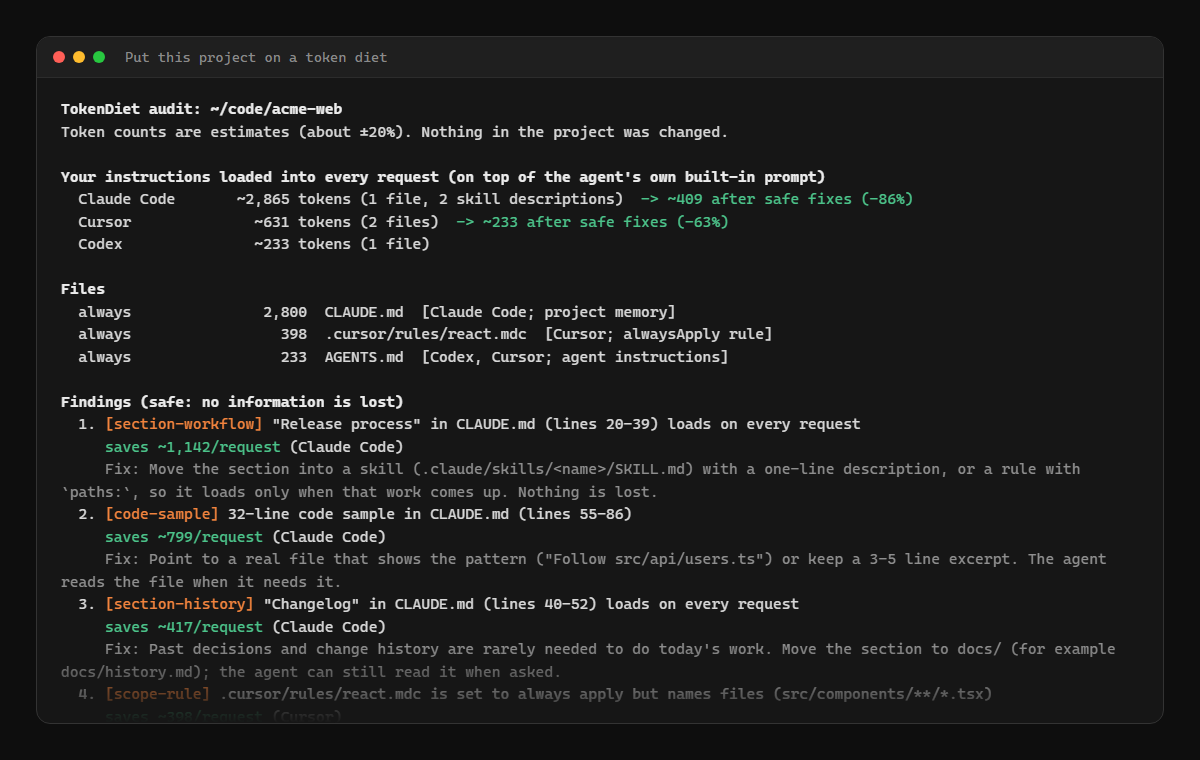
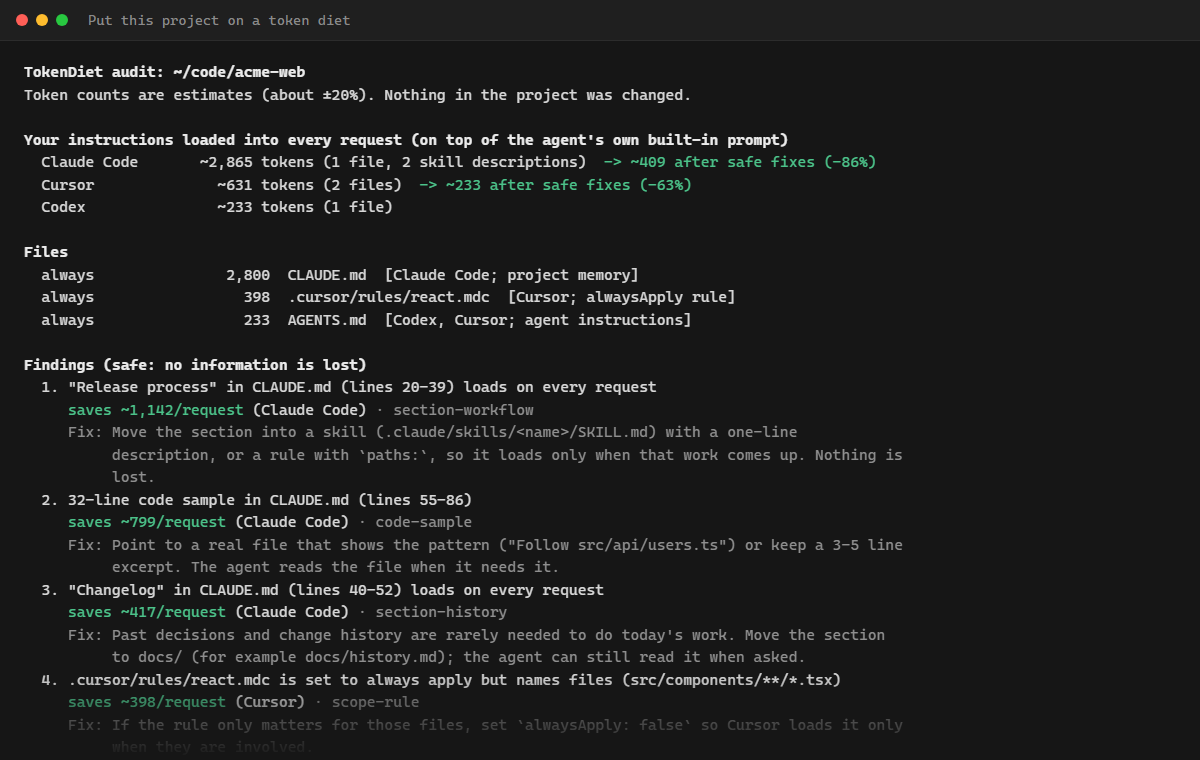
Design review fixes and Agensi details
- Buttons name an action before launch ("Explore TokenDiet",
  "See pricing") instead of a status
- Home hero: before/after token meter with the demo numbers
- FAQ chevrons inside the cards; "Explore" links aligned at the bottom
- Pricing: one clean price, cards sized to content; 30-day money-back
  guarantee and included updates (confirmed by Agensi)
- Terms: refunds within 30 days through Agensi, updates via re-upload
- "What it finds" in four columns; table and code-box polish
- Support buttons say what they do; 404 links use arrows, not ticks
- Terminal screenshots without the double frame; report lines wrapped

Changed region(s): [[0.0308, 0.0605, 0.925, 0.9684], [0.0, 0.0, 0.2775, 0.0303]]

diff --git a/docs/assets/site.css b/docs/assets/site.css
@@ -63,6 +63,7 @@ h3 { font-size: 1.15rem; }
 p { margin: 0 0 1em; }
 code, kbd, pre { font-family: var(--mono); font-size: 0.92em; }
 code { background: var(--surface-2); padding: 0.1em 0.35em; border-radius: 5px; }
+pre code { background: none; padding: 0; border-radius: 0; }
 
 .wrap { width: min(var(--max), 100% - 32px); margin-inline: auto; }
 .muted { color: var(--muted); }
@@ -108,6 +109,19 @@ code { background: var(--surface-2); padding: 0.1em 0.35em; border-radius: 5px; 
 /* ---------- sections ---------- */
 main { display: block; }
 .hero { padding: 56px 0 40px; }
+.hero-grid { display: grid; gap: 40px; grid-template-columns: minmax(0, 1.35fr) minmax(0, 1fr); align-items: center; }
+@media (max-width: 900px) { .hero-grid { grid-template-columns: 1fr; gap: 28px; } }
+
+/* The signature: a token meter, before and after a diet (demo numbers). */
+.meter-card { background: var(--surface); border: 1px solid var(--line); border-radius: 14px; padding: 24px; font-family: var(--mono); }
+.meter-card .meter-title { font-size: 0.8rem; letter-spacing: 0.14em; text-transform: uppercase; color: var(--muted); margin: 0 0 18px; }
+.meter-row { margin: 0 0 18px; }
+.meter-row .meter-label { display: flex; justify-content: space-between; gap: 12px; font-size: 0.95rem; color: var(--ink-2); margin-bottom: 8px; }
+.meter-row .meter-label strong { color: var(--ink); font-weight: 700; }
+.meter-track { height: 12px; border-radius: 6px; background: var(--surface-2); overflow: hidden; }
+.meter-fill { height: 100%; border-radius: 6px; background: var(--orange); }
+.meter-fill.after { background: var(--green); }
+.meter-card .meter-note { font-family: var(--sans); font-size: 0.85rem; color: var(--muted); margin: 4px 0 0; }
 .hero .eyebrow { font-family: var(--mono); font-size: 0.85rem; letter-spacing: 0.14em; text-transform: uppercase; color: var(--muted); margin-bottom: 14px; }
 .section { padding: 48px 0; border-top: 1px solid var(--line); }
 .section > .wrap > h2 + .lead { margin-top: -0.2em; }
@@ -125,18 +139,29 @@ main { display: block; }
 .cta-note { font-size: 0.92rem; color: var(--muted); }
 
 .grid { display: grid; gap: 16px; grid-template-columns: repeat(auto-fit, minmax(260px, 1fr)); }
+.grid.top { align-items: start; }
+.grid-4 { grid-template-columns: repeat(4, minmax(0, 1fr)); }
+@media (max-width: 1000px) { .grid-4 { grid-template-columns: repeat(2, minmax(0, 1fr)); } }
+@media (max-width: 560px) { .grid-4 { grid-template-columns: 1fr; } }
 .card { background: var(--surface); border: 1px solid var(--line); border-radius: var(--radius); padding: 22px; min-width: 0; }
 .card h3 { margin-top: 0; }
 .card p:last-child { margin-bottom: 0; }
 .card.accent-orange { border-top: 4px solid var(--orange); }
 .card.accent-green { border-top: 4px solid var(--green); }
+.product-card { display: flex; flex-direction: column; }
 .product-card .wordmark { font-size: 1.35rem; display: block; margin-bottom: 6px; }
+.product-card .more { margin-top: auto; padding-top: 8px; font-weight: 600; }
+.arrow-link { font-weight: 600; text-decoration: none; }
+.arrow-link::after { content: " →"; }
+.arrow-link:hover { text-decoration: underline; }
 .product-card .price { font-family: var(--mono); color: var(--muted); font-size: 0.95rem; margin-bottom: 12px; }
 
 .checklist { list-style: none; padding: 0; margin: 0 0 1em; }
 .checklist li { position: relative; padding-left: 28px; margin: 8px 0; }
 .checklist li::before { content: "✓"; position: absolute; left: 0; top: 0; font-weight: 700; color: var(--green); }
 .checklist.cross li::before { content: "✕"; color: var(--muted); }
+.link-list { list-style: none; padding: 0; margin: 0; }
+.link-list li { margin: 10px 0; }
 
 .steps { counter-reset: step; list-style: none; padding: 0; margin: 0; display: grid; gap: 16px; grid-template-columns: repeat(auto-fit, minmax(230px, 1fr)); }
 .steps li { counter-increment: step; background: var(--surface); border: 1px solid var(--line); border-radius: var(--radius); padding: 20px; }
@@ -150,6 +175,10 @@ main { display: block; }
 .stat { background: var(--surface); border: 1px solid var(--line); border-radius: var(--radius); padding: 18px; }
 .stat .num { font-family: var(--mono); font-size: 1.7rem; font-weight: 700; display: block; }
 .stat .what { color: var(--ink-2); font-size: 0.95rem; }
+.price-block { margin: 4px 0 18px; }
+.price-block .amount { font-family: var(--mono); font-size: 2.6rem; font-weight: 700; line-height: 1; display: block; }
+.price-block .terms { color: var(--ink-2); font-size: 0.95rem; }
+.availability { font-weight: 600; color: var(--green); margin: 4px 0 10px; }
 
 /* ---------- tables ---------- */
 .table-wrap { overflow-x: auto; border: 1px solid var(--line); border-radius: var(--radius); background: var(--surface); }
@@ -157,7 +186,7 @@ table { width: 100%; border-collapse: collapse; font-size: 0.95rem; }
 caption { text-align: left; padding: 14px 16px 0; color: var(--muted); font-size: 0.9rem; }
 th, td { text-align: left; padding: 12px 16px; border-bottom: 1px solid var(--line); vertical-align: top; }
 th { color: var(--ink-2); font-weight: 600; }
-tr:last-child td { border-bottom: 0; }
+tr:last-child > * { border-bottom: 0; }
 
 /* ---------- code / copy ---------- */
 .command { display: flex; align-items: stretch; gap: 0; border: 1px solid var(--line); border-radius: var(--radius); background: var(--surface); overflow: hidden; margin: 10px 0 18px; }
@@ -168,8 +197,15 @@ tr:last-child td { border-bottom: 0; }
 
 /* ---------- FAQ ---------- */
 .faq details { background: var(--surface); border: 1px solid var(--line); border-radius: var(--radius); margin: 10px 0; }
-.faq summary { cursor: pointer; padding: 16px 20px; font-weight: 600; list-style-position: outside; }
-.faq summary::marker { color: var(--orange); }
+.faq summary { cursor: pointer; padding: 16px 52px 16px 20px; font-weight: 600; list-style: none; position: relative; }
+.faq summary::-webkit-details-marker { display: none; }
+.faq summary::after {
+  content: ""; position: absolute; right: 22px; top: 50%; width: 9px; height: 9px; margin-top: -6px;
+  border-right: 2px solid var(--orange); border-bottom: 2px solid var(--orange); transform: rotate(45deg);
+  transition: transform 0.15s ease;
+}
+.faq details[open] summary::after { transform: rotate(-135deg); margin-top: -2px; }
+.faq summary:hover { color: var(--orange); }
 .faq details > div { padding: 0 20px 16px; color: var(--ink-2); }
 
 /* ---------- prose pages (legal) ---------- */

diff --git a/src/assets/site.css b/src/assets/site.css
@@ -63,6 +63,7 @@ h3 { font-size: 1.15rem; }
 p { margin: 0 0 1em; }
 code, kbd, pre { font-family: var(--mono); font-size: 0.92em; }
 code { background: var(--surface-2); padding: 0.1em 0.35em; border-radius: 5px; }
+pre code { background: none; padding: 0; border-radius: 0; }
 
 .wrap { width: min(var(--max), 100% - 32px); margin-inline: auto; }
 .muted { color: var(--muted); }
@@ -108,6 +109,19 @@ code { background: var(--surface-2); padding: 0.1em 0.35em; border-radius: 5px; 
 /* ---------- sections ---------- */
 main { display: block; }
 .hero { padding: 56px 0 40px; }
+.hero-grid { display: grid; gap: 40px; grid-template-columns: minmax(0, 1.35fr) minmax(0, 1fr); align-items: center; }
+@media (max-width: 900px) { .hero-grid { grid-template-columns: 1fr; gap: 28px; } }
+
+/* The signature: a token meter, before and after a diet (demo numbers). */
+.meter-card { background: var(--surface); border: 1px solid var(--line); border-radius: 14px; padding: 24px; font-family: var(--mono); }
+.meter-card .meter-title { font-size: 0.8rem; letter-spacing: 0.14em; text-transform: uppercase; color: var(--muted); margin: 0 0 18px; }
+.meter-row { margin: 0 0 18px; }
+.meter-row .meter-label { display: flex; justify-content: space-between; gap: 12px; font-size: 0.95rem; color: var(--ink-2); margin-bottom: 8px; }
+.meter-row .meter-label strong { color: var(--ink); font-weight: 700; }
+.meter-track { height: 12px; border-radius: 6px; background: var(--surface-2); overflow: hidden; }
+.meter-fill { height: 100%; border-radius: 6px; background: var(--orange); }
+.meter-fill.after { background: var(--green); }
+.meter-card .meter-note { font-family: var(--sans); font-size: 0.85rem; color: var(--muted); margin: 4px 0 0; }
 .hero .eyebrow { font-family: var(--mono); font-size: 0.85rem; letter-spacing: 0.14em; text-transform: uppercase; color: var(--muted); margin-bottom: 14px; }
 .section { padding: 48px 0; border-top: 1px solid var(--line); }
 .section > .wrap > h2 + .lead { margin-top: -0.2em; }
@@ -125,18 +139,29 @@ main { display: block; }
 .cta-note { font-size: 0.92rem; color: var(--muted); }
 
 .grid { display: grid; gap: 16px; grid-template-columns: repeat(auto-fit, minmax(260px, 1fr)); }
+.grid.top { align-items: start; }
+.grid-4 { grid-template-columns: repeat(4, minmax(0, 1fr)); }
+@media (max-width: 1000px) { .grid-4 { grid-template-columns: repeat(2, minmax(0, 1fr)); } }
+@media (max-width: 560px) { .grid-4 { grid-template-columns: 1fr; } }
 .card { background: var(--surface); border: 1px solid var(--line); border-radius: var(--radius); padding: 22px; min-width: 0; }
 .card h3 { margin-top: 0; }
 .card p:last-child { margin-bottom: 0; }
 .card.accent-orange { border-top: 4px solid var(--orange); }
 .card.accent-green { border-top: 4px solid var(--green); }
+.product-card { display: flex; flex-direction: column; }
 .product-card .wordmark { font-size: 1.35rem; display: block; margin-bottom: 6px; }
+.product-card .more { margin-top: auto; padding-top: 8px; font-weight: 600; }
+.arrow-link { font-weight: 600; text-decoration: none; }
+.arrow-link::after { content: " →"; }
+.arrow-link:hover { text-decoration: underline; }
 .product-card .price { font-family: var(--mono); color: var(--muted); font-size: 0.95rem; margin-bottom: 12px; }
 
 .checklist { list-style: none; padding: 0; margin: 0 0 1em; }
 .checklist li { position: relative; padding-left: 28px; margin: 8px 0; }
 .checklist li::before { content: "✓"; position: absolute; left: 0; top: 0; font-weight: 700; color: var(--green); }
 .checklist.cross li::before { content: "✕"; color: var(--muted); }
+.link-list { list-style: none; padding: 0; margin: 0; }
+.link-list li { margin: 10px 0; }
 
 .steps { counter-reset: step; list-style: none; padding: 0; margin: 0; display: grid; gap: 16px; grid-template-columns: repeat(auto-fit, minmax(230px, 1fr)); }
 .steps li { counter-increment: step; background: var(--surface); border: 1px solid var(--line); border-radius: var(--radius); padding: 20px; }
@@ -150,6 +175,10 @@ main { display: block; }
 .stat { background: var(--surface); border: 1px solid var(--line); border-radius: var(--radius); padding: 18px; }
 .stat .num { font-family: var(--mono); font-size: 1.7rem; font-weight: 700; display: block; }
 .stat .what { color: var(--ink-2); font-size: 0.95rem; }
+.price-block { margin: 4px 0 18px; }
+.price-block .amount { font-family: var(--mono); font-size: 2.6rem; font-weight: 700; line-height: 1; display: block; }
+.price-block .terms { color: var(--ink-2); font-size: 0.95rem; }
+.availability { font-weight: 600; color: var(--green); margin: 4px 0 10px; }
 
 /* ---------- tables ---------- */
 .table-wrap { overflow-x: auto; border: 1px solid var(--line); border-radius: var(--radius); background: var(--surface); }
@@ -157,7 +186,7 @@ table { width: 100%; border-collapse: collapse; font-size: 0.95rem; }
 caption { text-align: left; padding: 14px 16px 0; color: var(--muted); font-size: 0.9rem; }
 th, td { text-align: left; padding: 12px 16px; border-bottom: 1px solid var(--line); vertical-align: top; }
 th { color: var(--ink-2); font-weight: 600; }
-tr:last-child td { border-bottom: 0; }
+tr:last-child > * { border-bottom: 0; }
 
 /* ---------- code / copy ---------- */
 .command { display: flex; align-items: stretch; gap: 0; border: 1px solid var(--line); border-radius: var(--radius); background: var(--surface); overflow: hidden; margin: 10px 0 18px; }
@@ -168,8 +197,15 @@ tr:last-child td { border-bottom: 0; }
 
 /* ---------- FAQ ---------- */
 .faq details { background: var(--surface); border: 1px solid var(--line); border-radius: var(--radius); margin: 10px 0; }
-.faq summary { cursor: pointer; padding: 16px 20px; font-weight: 600; list-style-position: outside; }
-.faq summary::marker { color: var(--orange); }
+.faq summary { cursor: pointer; padding: 16px 52px 16px 20px; font-weight: 600; list-style: none; position: relative; }
+.faq summary::-webkit-details-marker { display: none; }
+.faq summary::after {
+  content: ""; position: absolute; right: 22px; top: 50%; width: 9px; height: 9px; margin-top: -6px;
+  border-right: 2px solid var(--orange); border-bottom: 2px solid var(--orange); transform: rotate(45deg);
+  transition: transform 0.15s ease;
+}
+.faq details[open] summary::after { transform: rotate(-135deg); margin-top: -2px; }
+.faq summary:hover { color: var(--orange); }
 .faq details > div { padding: 0 20px 16px; color: var(--ink-2); }
 
 /* ---------- prose pages (legal) ---------- */

diff --git a/docs/tokendiet/index.html b/docs/tokendiet/index.html
@@ -47,7 +47,7 @@
   <h1 id="diet-title"><span aria-hidden="true"><span class="wordmark">TOKEN<span class="diet">DIET</span></span></span><span class="visually-hidden">TokenDiet</span></h1>
   <p class="lead">Cut the tokens your coding agent spends on every request, without losing quality. TokenDiet measures your instruction files, finds what can go, and trims it with your approval.</p>
   <div class="cta-row">
-    <a class="btn btn-primary" href="/tokendiet/#pricing">TokenDiet · coming soon</a>
+    <a class="btn btn-primary" href="#pricing">See pricing</a>
     <a class="btn btn-secondary" href="#findings">See what it finds</a>
   </div>
   <p class="cta-note">Works with Claude Code, Codex, Cursor, GitHub Copilot, Gemini CLI, Windsurf and Cline.</p>
@@ -90,7 +90,7 @@
 
 <section class="section" id="findings" aria-labelledby="findings-title"><div class="wrap">
   <h2 id="findings-title">What it finds</h2>
-  <div class="grid">
+  <div class="grid grid-4">
     <div class="card"><h3>Repeated rules</h3><p>The same instructions in CLAUDE.md, AGENTS.md and rules files, or twice in one file.</p></div>
     <div class="card"><h3>Workflow sections</h3><p>Release, review or migration steps that load on every request but matter only sometimes. TokenDiet moves them into on-demand skills or scoped rules.</p></div>
     <div class="card"><h3>History</h3><p>Change logs and past decisions that rarely help with today's work.</p></div>
@@ -144,18 +144,21 @@
 
 <section class="section" id="pricing" aria-labelledby="pricing-title"><div class="wrap">
   <h2 id="pricing-title">Pricing</h2>
-  <div class="grid">
+  <div class="grid top">
     <div class="card accent-green">
-      <p class="price mono">One-time</p>
-      <p class="stat"><span class="num">$15</span><span class="what">coming soon to Agensi</span></p>
+      <h3>TokenDiet</h3>
+      <p class="price-block"><span class="amount">$15</span><span class="terms">one-time payment, no subscription</span></p>
+      <p class="availability">Launching soon on Agensi</p>
       <ul class="checklist">
         <li>The skill, scripts and playbook</li>
         <li>A demo project to try it safely first</li>
+        <li>Updates included: new versions reach you through Agensi</li>
         <li>Use for yourself, or for your whole team or company</li>
+        <li>30-day money-back guarantee</li>
         <li>Support through GitHub, with replies within 2 business days</li>
       </ul>
-      <div class="cta-row"><a class="btn btn-primary" href="/tokendiet/#pricing">TokenDiet · coming soon</a></div>
-      <p class="cta-note">TokenDiet will be sold through Agensi, which handles payment and refunds. This page will link to the listing once it is live. See the <a href="/terms/">terms and refunds</a>.</p>
+      
+      <p class="cta-note">Sold through Agensi, which handles payment and refunds. A buy button appears here when the listing is live. See the <a href="/terms/">terms and refunds</a>.</p>
     </div>
     <div class="card">
       <h3>Requirements</h3>
@@ -213,7 +216,7 @@
     Tokenmeter and TokenDiet are not affiliated with or endorsed by Anthropic; Claude is a trademark of Anthropic.</p>
   </div>
 </footer>
-<aside class="sticky-cta" aria-label="TokenDiet · $15"><span class="label">TokenDiet · $15</span><a class="btn btn-primary" href="/tokendiet/#pricing">Details</a></aside>
+<aside class="sticky-cta" aria-label="TokenDiet · $15"><span class="label">TokenDiet · $15</span><a class="btn btn-primary" href="/tokendiet/#pricing">See pricing</a></aside>
 <p id="copy-status" class="visually-hidden" role="status" aria-live="polite"></p>
 </body>
 </html>

diff --git a/docs/index.html b/docs/index.html
@@ -42,15 +42,30 @@
 
 <main id="main" tabindex="-1">
 
-<section class="hero" aria-labelledby="home-title"><div class="wrap">
-  <p class="eyebrow">For Claude Code and other coding agents</p>
-  <h1 id="home-title">Spend fewer tokens.<br>Lose nothing.</h1>
-  <p class="lead">Two tools that work together. <strong>Tokenmeter</strong> shows where your Claude Code tokens go, live. <strong>TokenDiet</strong> cuts what your instructions add to every request, without making your agent any less capable.</p>
-  <div class="cta-row">
-    <a class="btn btn-primary" href="/tokendiet/#pricing">TokenDiet · coming soon</a>
-    <a class="btn btn-secondary" href="/tokenmeter/#install">Install Tokenmeter, free</a>
+<section class="hero" aria-labelledby="home-title"><div class="wrap hero-grid">
+  <div>
+    <p class="eyebrow">For Claude Code and other coding agents</p>
+    <h1 id="home-title">Spend fewer tokens.<br>Lose nothing.</h1>
+    <p class="lead">Two tools that work together. <strong>Tokenmeter</strong> shows where your Claude Code tokens go, live. <strong>TokenDiet</strong> cuts what your instructions add to every request, without making your agent any less capable.</p>
+    <div class="cta-row">
+      <a class="btn btn-primary" href="/tokendiet/">Explore TokenDiet</a>
+      <a class="btn btn-secondary" href="/tokenmeter/#install">Install Tokenmeter, free</a>
+    </div>
+    <p class="cta-note">Both run on your computer. Nothing is sent anywhere.</p>
   </div>
-  <p class="cta-note">Both run on your computer. Nothing is sent anywhere.</p>
+  
+  <figure class="meter-card" aria-labelledby="meter-title">
+    <p class="meter-title" id="meter-title">Instructions per request</p>
+    <div class="meter-row">
+      <p class="meter-label"><span>Before TokenDiet</span><strong>2,865 tokens</strong></p>
+      <div class="meter-track" aria-hidden="true"><div class="meter-fill" style="width:100%"></div></div>
+    </div>
+    <div class="meter-row">
+      <p class="meter-label"><span>After TokenDiet</span><strong class="green">409 tokens</strong></p>
+      <div class="meter-track" aria-hidden="true"><div class="meter-fill after" style="width:14%"></div></div>
+    </div>
+    <figcaption class="meter-note">Claude Code on the demo project that ships with TokenDiet. Nothing the agent needs was removed.</figcaption>
+  </figure>
 </div></section>
 
 <section class="section" aria-labelledby="products-title"><div class="wrap">
@@ -64,7 +79,7 @@
         <li>Local dashboard with 90 days of history</li>
         <li>Counts each response once, unlike tools that sum every log line</li>
       </ul>
-      <a href="/tokenmeter/">Explore Tokenmeter</a>
+      <a class="more arrow-link" href="/tokenmeter/">Explore Tokenmeter</a>
     </article>
     <article class="card product-card accent-green">
       <span class="wordmark">TOKEN<span class="diet">DIET</span></span>
@@ -74,7 +89,7 @@
         <li>Finds repeated, stale and misplaced instructions</li>
         <li>Applies lossless fixes, with your approval and a backup</li>
       </ul>
-      <a href="/tokendiet/">Explore TokenDiet</a>
+      <a class="more arrow-link" href="/tokendiet/">Explore TokenDiet</a>
     </article>
   </div>
 </div></section>

diff --git a/docs/terms/index.html b/docs/terms/index.html
@@ -41,7 +41,7 @@
 </header>
 <nav class="breadcrumbs wrap" aria-label="Breadcrumb"><ol><li><a href="/">Home</a></li><li><span aria-current="page">Terms of use and refunds</span></li></ol></nav>
 <main id="main" tabindex="-1">
-<div class="wrap"><article class="prose" aria-labelledby="legal-title"><h1 id="legal-title">Terms of use and refunds</h1><p class="updated">Last updated: <time datetime="2026-10-26">October 26, 2026</time></p>
+<div class="wrap"><article class="prose" aria-labelledby="legal-title"><h1 id="legal-title">Terms of use and refunds</h1><p class="updated">Last updated: <time datetime="2026-10-29">October 29, 2026</time></p>
 <p>These terms cover this website, Tokenmeter and TokenDiet, made by Bar Madar. By using them you agree to these terms.</p>
 
 <h2>The website</h2>
@@ -55,8 +55,9 @@
 
 <h2>Purchases and refunds</h2>
 <ul>
-  <li>TokenDiet is sold through Agensi, which acts as the seller, processes payment and delivers the download. Its <a href="https://agensi.io/terms">terms</a> apply to your purchase, including refunds.</li>
-  <li>To ask for a refund, follow Agensi's refund process. If you run into a problem with the product itself, <a href="https://github.com/bar-madar/bar-madar.github.io/issues">open an issue</a> first; most problems can be fixed quickly.</li>
+  <li>TokenDiet is sold through Agensi, which acts as the seller (merchant of record), processes payment and delivers the download. Its <a href="https://agensi.io/terms">terms</a> apply to your purchase.</li>
+  <li>Every purchase comes with a 30-day money-back guarantee. To ask for a refund, use Agensi's refund process within 30 days of buying. If you run into a problem with the product itself, you're also welcome to <a href="https://github.com/bar-madar/bar-madar.github.io/issues">open an issue</a>; most problems can be fixed quickly.</li>
+  <li>Updates are delivered through Agensi: when a new version is released, it replaces the download on your purchase at no extra cost.</li>
   <li>Nothing in these terms limits rights you have under consumer protection law, including Israel's Consumer Protection Law where it applies.</li>
 </ul>
 

diff --git a/docs/cookies/index.html b/docs/cookies/index.html
@@ -41,7 +41,7 @@
 </header>
 <nav class="breadcrumbs wrap" aria-label="Breadcrumb"><ol><li><a href="/">Home</a></li><li><span aria-current="page">Cookie policy</span></li></ol></nav>
 <main id="main" tabindex="-1">
-<div class="wrap"><article class="prose" aria-labelledby="legal-title"><h1 id="legal-title">Cookie policy</h1><p class="updated">Last updated: <time datetime="2026-10-26">October 26, 2026</time></p>
+<div class="wrap"><article class="prose" aria-labelledby="legal-title"><h1 id="legal-title">Cookie policy</h1><p class="updated">Last updated: <time datetime="2026-10-29">October 29, 2026</time></p>
 <p>This website does not use cookies, local storage, session storage, tracking pixels, fingerprinting or any similar technology. That is why there is no cookie banner: there is nothing to consent to.</p>
 <p>Your browser may keep its own cache of the pages and images to load them faster. That is a normal browser feature, and you control it in your browser's settings.</p>
 <p>Links to other sites, such as GitHub and Agensi, take you to sites with their own cookie policies.</p>

diff --git a/docs/404.html b/docs/404.html
@@ -46,12 +46,12 @@
   <p class="eyebrow">404</p>
   <h1 id="nf-title">This page went on a diet</h1>
   <p class="lead">It doesn't exist anymore, or never did. Here's where you can go instead:</p>
-  <ul class="checklist">
-    <li><a href="/">Home</a></li>
-    <li><a href="/tokendiet/">TokenDiet</a>, the skill that trims your instructions</li>
-    <li><a href="/tokenmeter/">Tokenmeter</a>, the free usage pane and dashboard</li>
-    <li><a href="/tokendiet/thanks/">TokenDiet install guide</a></li>
-    <li><a href="/support/">Support</a></li>
+  <ul class="link-list">
+    <li><a class="arrow-link" href="/">Home</a></li>
+    <li><a class="arrow-link" href="/tokendiet/">TokenDiet</a> <span class="muted">· the skill that trims your instructions</span></li>
+    <li><a class="arrow-link" href="/tokenmeter/">Tokenmeter</a> <span class="muted">· the free usage pane and dashboard</span></li>
+    <li><a class="arrow-link" href="/tokendiet/thanks/">TokenDiet install guide</a></li>
+    <li><a class="arrow-link" href="/support/">Support</a></li>
   </ul>
 </div></section>
 </main>

diff --git a/docs/privacy/index.html b/docs/privacy/index.html
@@ -41,7 +41,7 @@
 </header>
 <nav class="breadcrumbs wrap" aria-label="Breadcrumb"><ol><li><a href="/">Home</a></li><li><span aria-current="page">Privacy policy</span></li></ol></nav>
 <main id="main" tabindex="-1">
-<div class="wrap"><article class="prose" aria-labelledby="legal-title"><h1 id="legal-title">Privacy policy</h1><p class="updated">Last updated: <time datetime="2026-10-26">October 26, 2026</time></p>
+<div class="wrap"><article class="prose" aria-labelledby="legal-title"><h1 id="legal-title">Privacy policy</h1><p class="updated">Last updated: <time datetime="2026-10-29">October 29, 2026</time></p>
 <p>This policy covers this website (bar-madar.github.io), the Tokenmeter plugin and dashboard, and the TokenDiet skill. They are made by Bar Madar, an independent developer, who is responsible for them. The short version: none of them collect personal data.</p>
 
 <h2>This website</h2>

diff --git a/docs/support/index.html b/docs/support/index.html
@@ -46,8 +46,8 @@
   <h1 id="support-title">Support</h1>
   <p class="lead">Questions, bugs and ideas go through GitHub issues. I reply within 2 business days.</p>
   <div class="cta-row">
-    <a class="btn btn-primary" href="https://github.com/bar-madar/claude-tokenmeter/issues">Tokenmeter issue</a>
-    <a class="btn btn-secondary" href="https://github.com/bar-madar/bar-madar.github.io/issues">TokenDiet or website issue</a>
+    <a class="btn btn-primary" href="https://github.com/bar-madar/claude-tokenmeter/issues/new">Report a Tokenmeter issue</a>
+    <a class="btn btn-secondary" href="https://github.com/bar-madar/bar-madar.github.io/issues/new">Report a TokenDiet or website issue</a>
   </div>
   <p class="cta-note">GitHub issues are public. Don't include private code, keys or personal details.</p>
 </div></section>

diff --git a/docs/accessibility/index.html b/docs/accessibility/index.html
@@ -41,7 +41,7 @@
 </header>
 <nav class="breadcrumbs wrap" aria-label="Breadcrumb"><ol><li><a href="/">Home</a></li><li><span aria-current="page">Accessibility statement</span></li></ol></nav>
 <main id="main" tabindex="-1">
-<div class="wrap"><article class="prose" aria-labelledby="legal-title"><h1 id="legal-title">Accessibility statement</h1><p class="updated">Last updated: <time datetime="2026-10-26">October 26, 2026</time></p>
+<div class="wrap"><article class="prose" aria-labelledby="legal-title"><h1 id="legal-title">Accessibility statement</h1><p class="updated">Last updated: <time datetime="2026-10-29">October 29, 2026</time></p>
 <p>I want this website to be usable by everyone, including people who use screen readers, keyboard navigation, magnification or other assistive technology.</p>
 
 <h2>Standard</h2>
